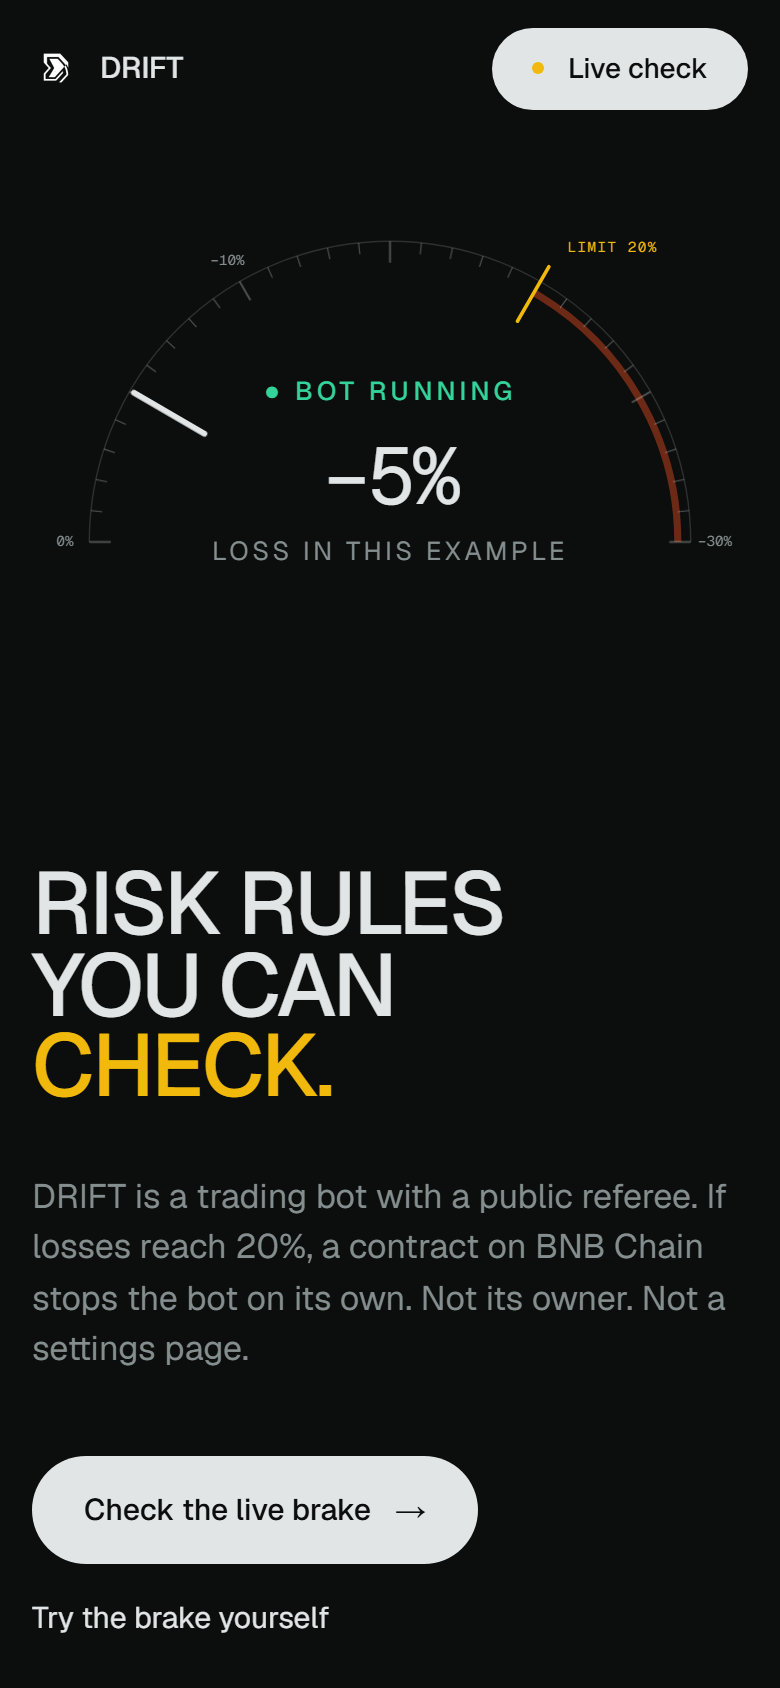
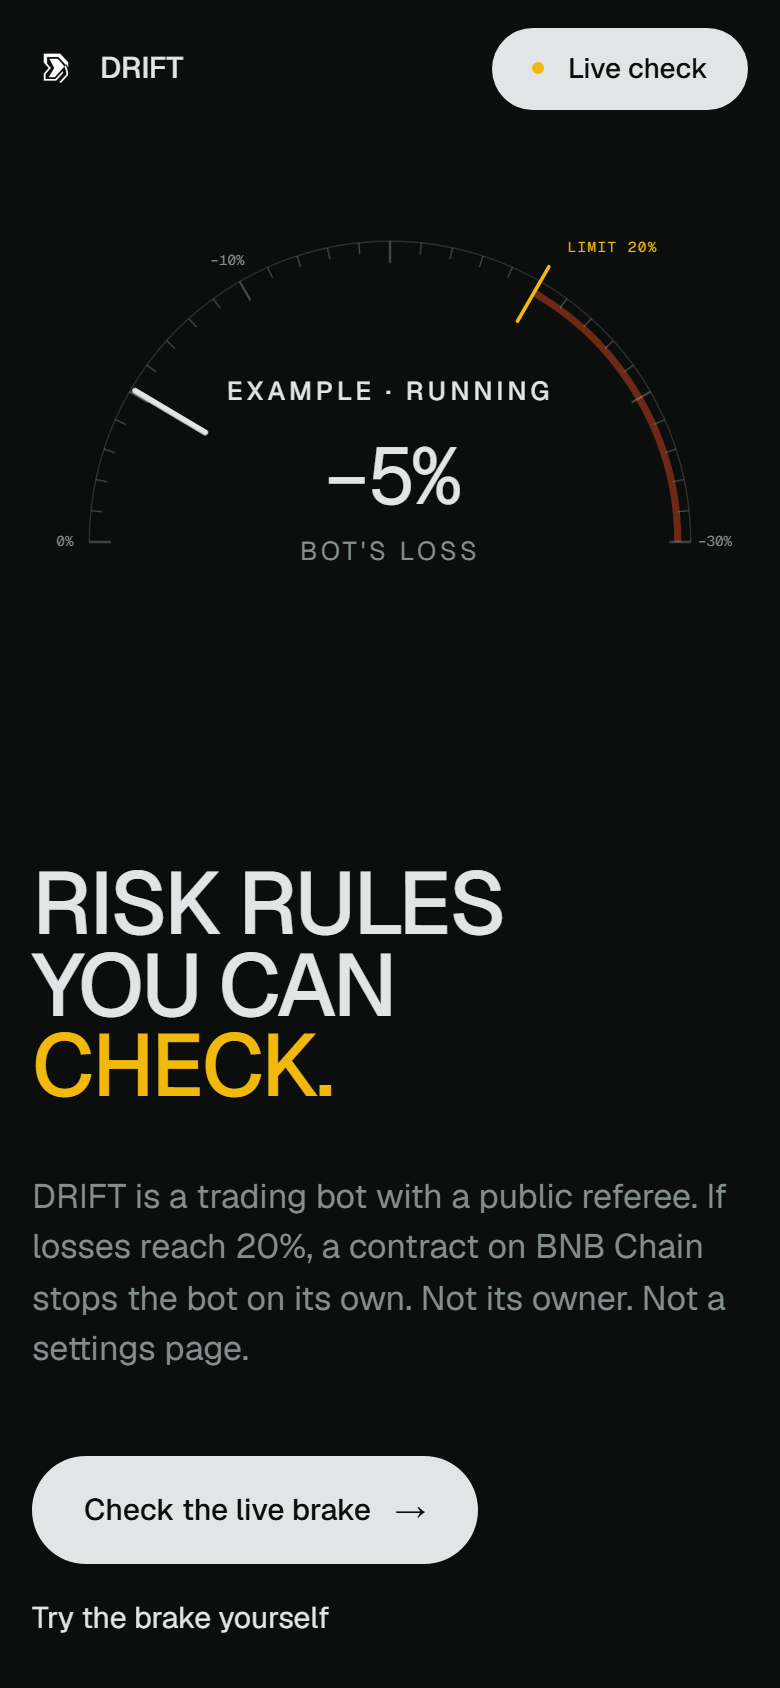
docs: the landing capture with the example dial

Changed region(s): [[0.2769, 0.2156, 0.7077, 0.2464], [0.3077, 0.3081, 0.6769, 0.3389], [0.1846, 0.2156, 0.2154, 0.2464]]

diff --git a/README.md b/README.md
@@ -89,7 +89,7 @@ DRIFT's core (the quant engine, the cockpit and `MacroGuard.sol`) comes from the
 | 3 Oct | "Ask the contract"; labelled Binance data fallback; 23 contract tests, 48 engine tests and 8 web tests added; CI workflow; threat model; share card; this README; deck v2 |
 | 4 Oct | Visual system v3 across the site: landing with a live contract readout, guard panel, cockpit, blog and share card; motion in plain CSS with no animation library (framer-motion and GSAP removed), with reduced-motion and no-JS paths. Live in production on 5 Oct (build `f4cccd8`) |
 | 6 Oct | A calmer product landing in plain language, with motion built in code: a brake dial, a scroll-driven halt scene, step artwork and "Try the brake", which asks the live contract (eth_call, nothing signed) |
-| 7 Oct | Final pass before judging: the hero dial is labelled as an example and the live line says only what the contract knows ("Not halted"); a zero loss reads 0%; screenshots recaptured from the live site; the final deck in `docs/submission` |
+| 7 Oct | Final pass before judging: the hero dial reads as an example and the live line says only what the contract knows ("Not halted"); a zero loss reads 0%; screenshots recaptured from the live site; the final deck in `docs/submission` |
 
 Commit history: [`main`](https://github.com/Stylenecy/drift/commits/main). This repository was split from `Stylenecy/seed-bnb` (branch `dex/drift`) on 6 Oct 2026 with every commit kept: the first commit (`753b707` here, `52671ce` upstream) is the upstream seed import by its original author, every later commit is this project's own work.
 

diff --git a/SHOWCASE.md b/SHOWCASE.md
@@ -38,7 +38,7 @@ With both public RPCs blocked, the panel says so, makes no live claim, and still
 
 ![MacroGuard panel with the live read unavailable: amber notice, not-live badge, verified receipts still listed](docs/screens/after/public-guard-engine-offline-desktop.png)
 
-*Captures: 7 Oct 2026 from the production site (builds `640fa63` and, for the landing, `f257904`). Live values come from BSC Testnet at the block shown in each image; the view without a live read was made by blocking both public RPCs in the browser.*
+*Captures: 7 Oct 2026 from the production site (builds `640fa63` and, for the landing, `972d984`). Live values come from BSC Testnet at the block shown in each image; the view without a live read was made by blocking both public RPCs in the browser.*
 
 ---
 
